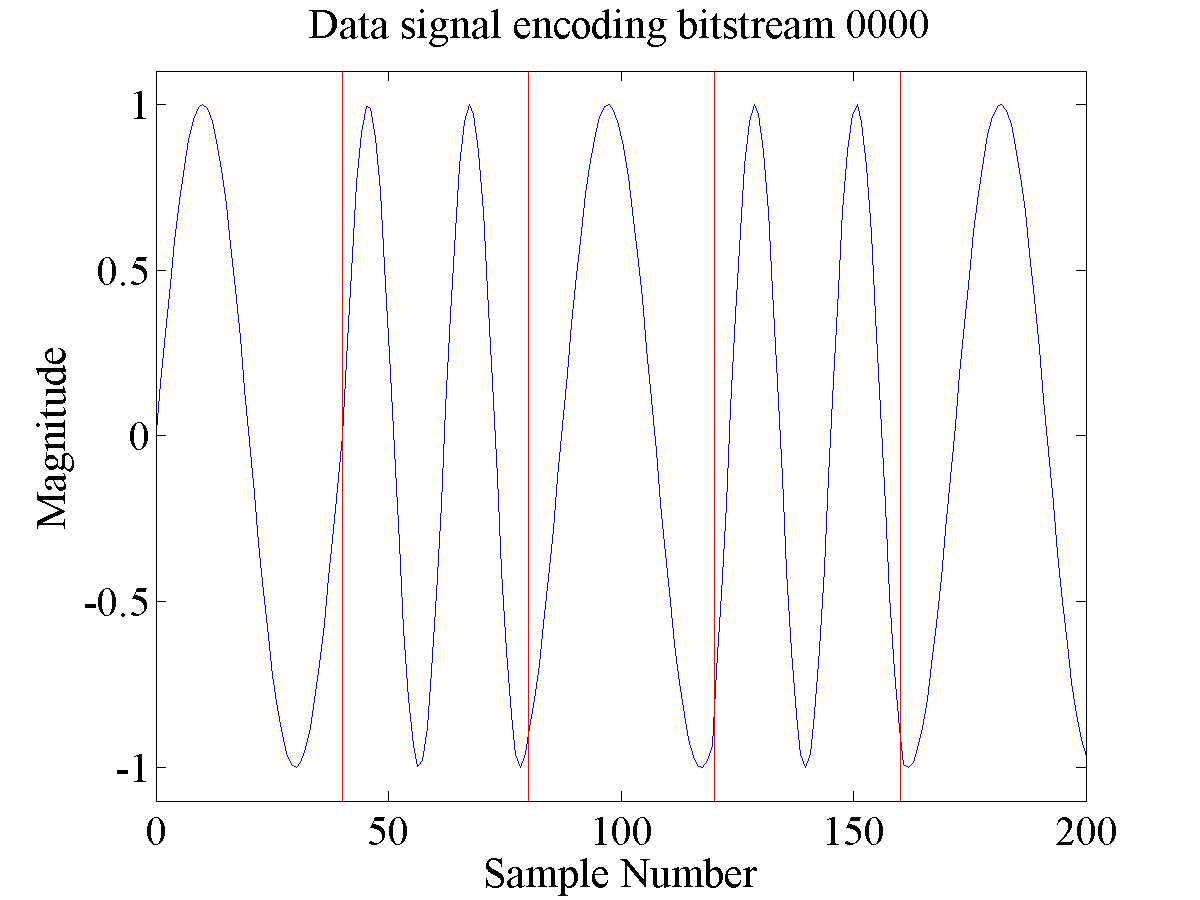
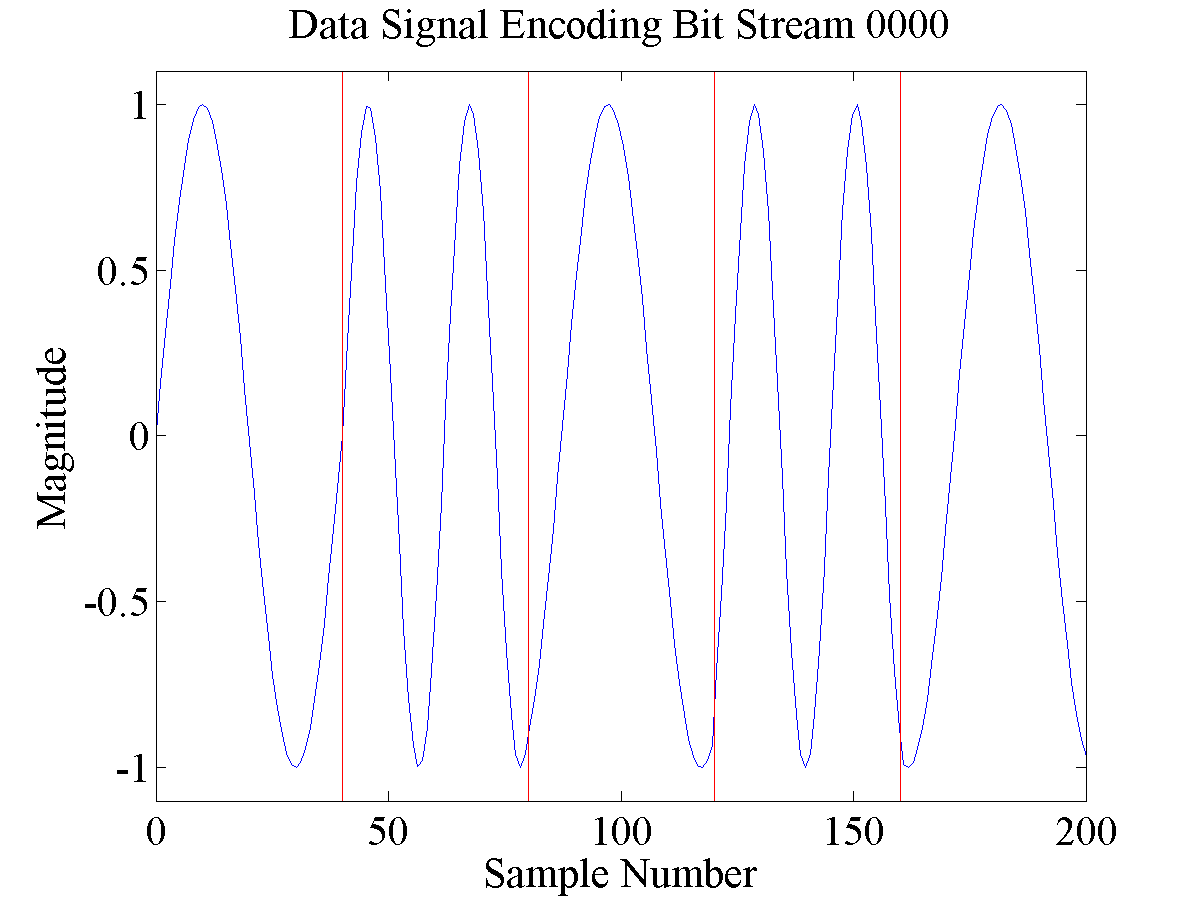
Updating figured with new titles and corresponding references in document

Changed region(s): [[0.2467, 0.0, 0.8017, 0.0622]]

diff --git a/demodbenchmarking.tex b/demodbenchmarking.tex
@@ -5,7 +5,7 @@ In order to compare the results of the different demodulators a method of benchm
 These audio files were just what the title implies - straight packets. What is meant by straight packets is that they are pure "perfect" 1200Hz and 2200Hz tone audio samples. There is no noise introduced through artificial or natural means such as noise introduced through the intrinsics of using RF and the medium. Although these files do not provide meaningful results for hardware or already implemented software solutions (since these devices will be able to decode every packet in the audio file) it still provides a good starting point for getting new algorithms up and running. Two of these clean files were generated. One was generated from an OpenTracker creating packets with a counter and the text "The quick brown fox jumps over the lazy dog". This audio file contained a total of 40 packets and proved to be short enough to allow for quick cross checking as modifications were made. The second file was generated in software using Toledo's javAX25 package. All that is relevant at this point is that it has perfect levels (1200Hz and 2200Hz tones are at the exact same level) and contains 200 packets making the file quite a bit longer. An example segment from the 200 packet audio file can be seen in Figure \ref{gen200Segment}.
 \begin{figure}
   \centering
-	\includegraphics[width=0.75\linewidth]{images/Examplesignalsegmentfromthe200packetgeneratedfile.png} 
+	\includegraphics[width=0.75\linewidth]{images/200PacketGeneratedFileSegment.png} 
 	\caption{Example of the AFSK present signal in the 200 packet generated file.}
    \label{gen200Segment}
 \end{figure}
@@ -14,7 +14,7 @@ These audio files were just what the title implies - straight packets. What is m
 The second test file that was used on the demodulators was the 40 packet OpenTracker file mentioned in the previous section with added artificial white noise. An advantage of this file is that its contents are known while still being a reasonable benchmarking file. No demodulator could demodulate all the packets out of the file as the noise was increased all the way up to a signal to noise ration (SNR) of 0.5. There were total of 10 steps of increasing noise meaning that at each noise level there were approximately 4 packets. This noise was added to the original audio file using the audio editing program Audacity \cite{Mazzoni}. Although this file does not directly characterize what is introduced by RF, it provides a reasonable test simulating the effects of a decreased SNR on the audio signal. An example segment from this white noise added file can be seen in Figure \ref{OT3TestwNoiseSegment}.
 \begin{figure}
   \centering
-	\includegraphics[width=0.75\linewidth]{images/ExampleSignalSegmentfromtheGeneratedFilewithNoise.png} 
+	\includegraphics[width=0.75\linewidth]{images/OpenTrackerFilewithNoiseAddedSegment.png} 
 	\caption{Example of a generated AFSK signal with artificial white noise added.}
    \label{OT3TestwNoiseSegment}
 \end{figure}
@@ -24,7 +24,7 @@ The second test file that was used on the demodulators was the 40 packet OpenTra
 This next benchmark is the de-facto benchmark for demodulators. The idea behind it is simple, yet it provides a very comprehensive test. The author of this file recorded on air APRS traffic in the Los Angeles Area for 45 minutes. He then removed segments of no traffic and condensed 45 minutes of live recording down to about 25 minutes \cite{Smith2009}. The nice thing is that it is real traffic which contains all of the real life situations including stations close to the receiver, far from the receiver, moving, stationary, different transmit power levels, different hardware, and varying content just to name a few. One disadvantage is that since it is just a random recording of traffic on the air, there is no definitive answer of how many packets are in the file. After listening to the audio file by ear it is approximated that there are a total of about 1463 packets by listening to the first 3 minutes as a sample and extrapolating to the length of the audio segment. This is considered \textit{the} file use for benchmarking in the community and when people discuss the performance of their demodulator, they quote it in how many packets they were able to successfully decode out of this file. An example segment from this off air recording of APRS traffic can be seen in Figure \ref{Track1Segment}. This is just one of the audio files on this author's test CD and is in fact the first one on the CD, so it will be referred to as Track 1. This was the the file that was most important to the testing, but the author also has a second version of this file in Track 2. The only difference between Track 1 and Track 2 is that an audio filter was used to create Track 2 which had the result of being a deemphasized version of Track 1. 
 \begin{figure}
   \centering
-	\includegraphics[width=0.75\linewidth]{images/ExampleSignalSegmentfromtheLosAngelesRecording.png} 
+	\includegraphics[width=0.75\linewidth]{images/LosAngelesRecordingSegment.png} 
 	\caption{Example of the AFSK present signal in Track 1 of the Los Angeles Recording Test File.}
    \label{Track1Segment}
 \end{figure}

diff --git a/demodchallenges.tex b/demodchallenges.tex
@@ -18,7 +18,7 @@ First, a definition of noise in this context: noise refers to unwanted electrica
 One such example of this is if the noise happened to also take on the form of a sine wave and the algorithm locked onto that frequency instead of the 1200Hz or 2200Hz signal that was wanted to be decoded. Alternatively, if the noise was just random and jostled the signal in the correct spot 1200Hz tones might look like 2200Hz (this ended up being fairly common) or vice versa. An example of what noise may look like on the original signal is in the Figure \ref{noiseExample}.
 \begin{figure}
   \centering
-	\includegraphics[width=0.75\linewidth]{images/Datasignalencodingbitstream0000WithNoise.png} 
+	\includegraphics[width=0.75\linewidth]{images/EffectsofAddingNoisetoaSignal.png} 
 	\caption{An example Bell 202 signal with white noise added.}
    \label{noiseExample}
 \end{figure}
@@ -27,7 +27,7 @@ One such example of this is if the noise happened to also take on the form of a 
 Due to the fact that this is AFSK data being transmitted over a voice channel, emphasis becomes a concern. Preemphasis is when the the higher audio tones in a Frequency Modulated (FM) signal are intentionally increased and deemphasis is when that process is reversed on the receiving end to return the audio to a flat signal. Why emphasize the audio signal? This process of emphasis is not necessary, but the effects are desirable since it increases the signal to noise ratio in the RF signal by having the higher audio tones preemphsized \cite{Gibilisco1994}. The effects of a non-emphasized signal being deemphasized can be seen in Figure \ref{emphasisExample}. This causes problems to the demodulation because it can not be assumed that the relative powers of each frequency will be equal since they will have different magnitudes in this case. 
 \begin{figure}
   \centering
-	\includegraphics[width=0.75\linewidth]{images/EffectsofDeemphasisonaSignalthatwasnotpreemphasized.png} 
+	\includegraphics[width=0.75\linewidth]{images/DeemphasizedSignalthatwasnotpreemphasized.png} 
 	\caption{An example signal that was deemphasized, but not preemphasized.}
    \label{emphasisExample}
 \end{figure}
